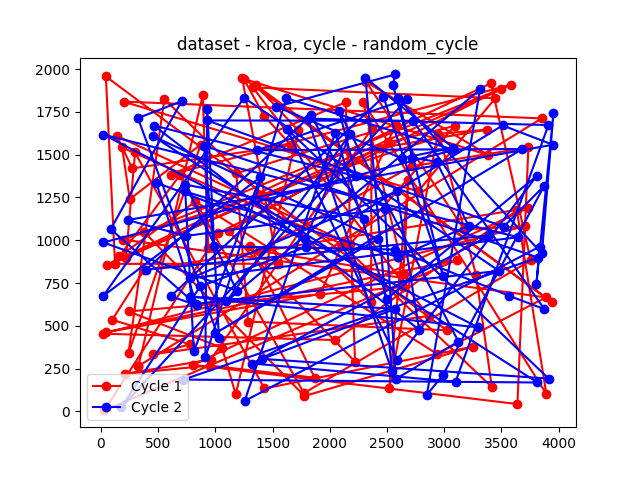
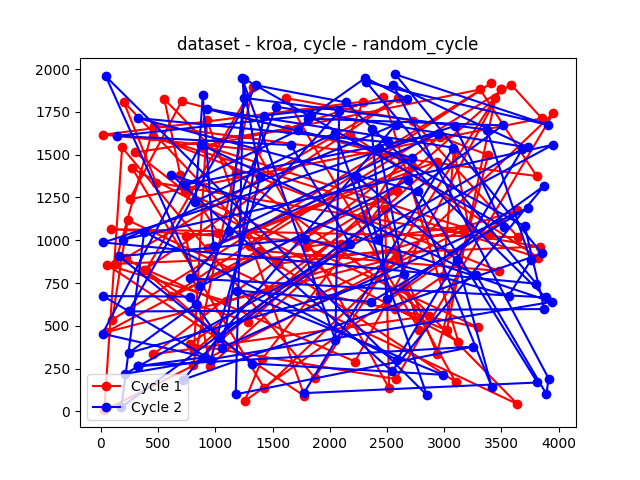
fixes

diff --git a/imo_5.py b/imo_5.py
@@ -160,7 +160,7 @@ def regret_fix(tours,unvisited):
         regrets = []
         if len(tour) == 0:
             start_idx = random.sample(unvisited, k= 1)
-            tour = [unvisited.pop(start_idx[0])]
+            tour = [unvisited.pop(0)]
         if len(tour) == 1:
             nearest_to_first_1 = [cities[tour[0]][j] for j in unvisited]
             tour.append(unvisited.pop(np.argmin(nearest_to_first_1)))
